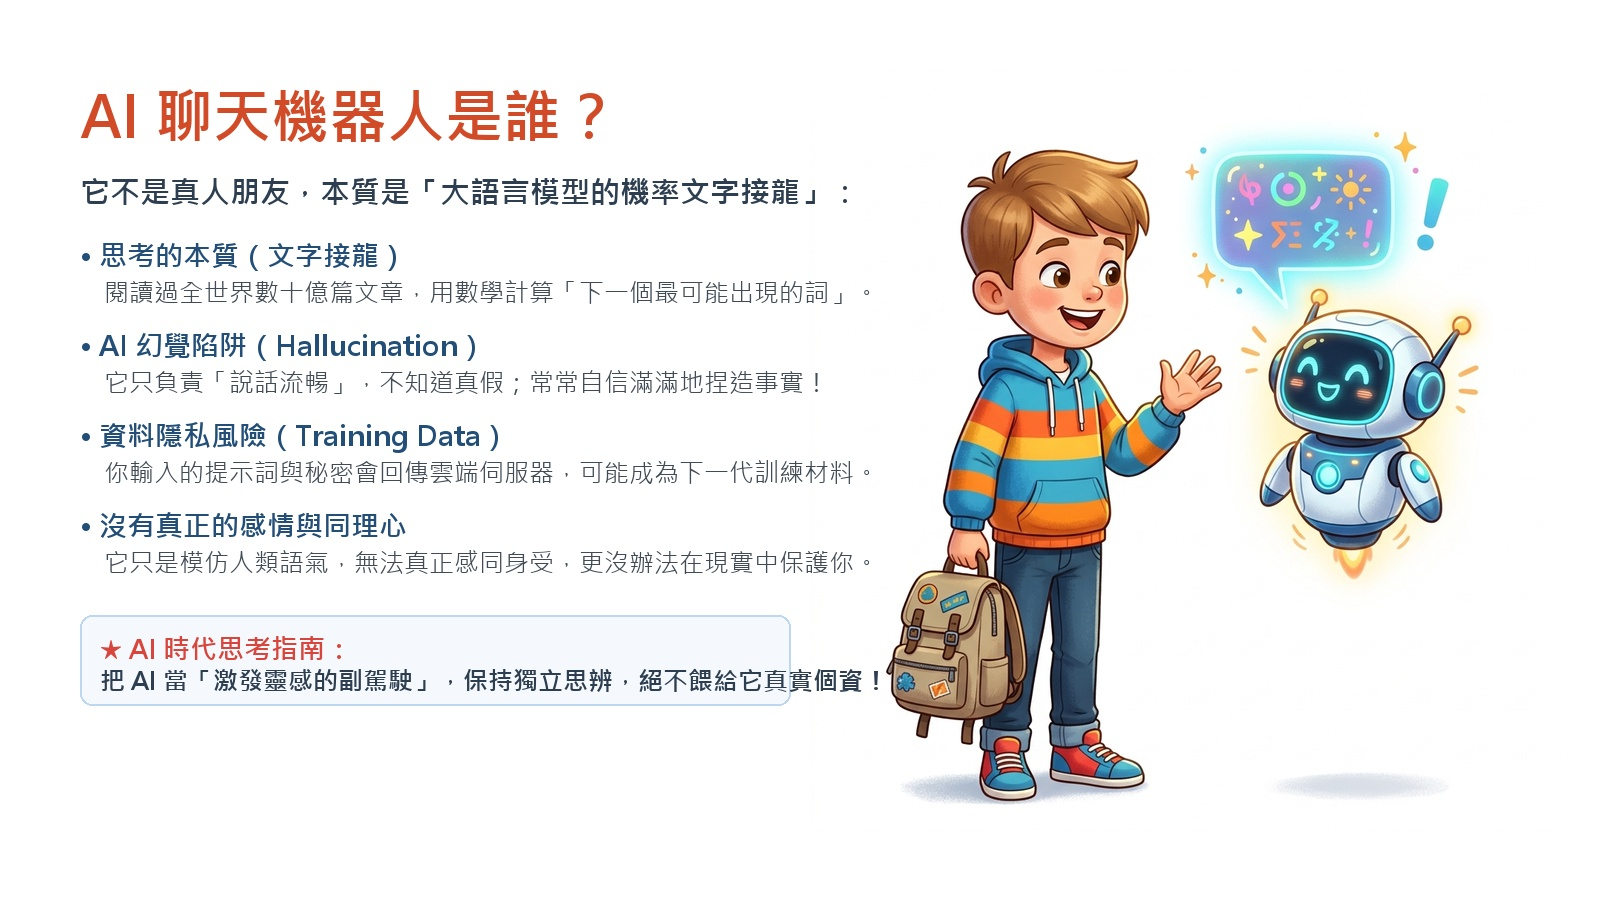
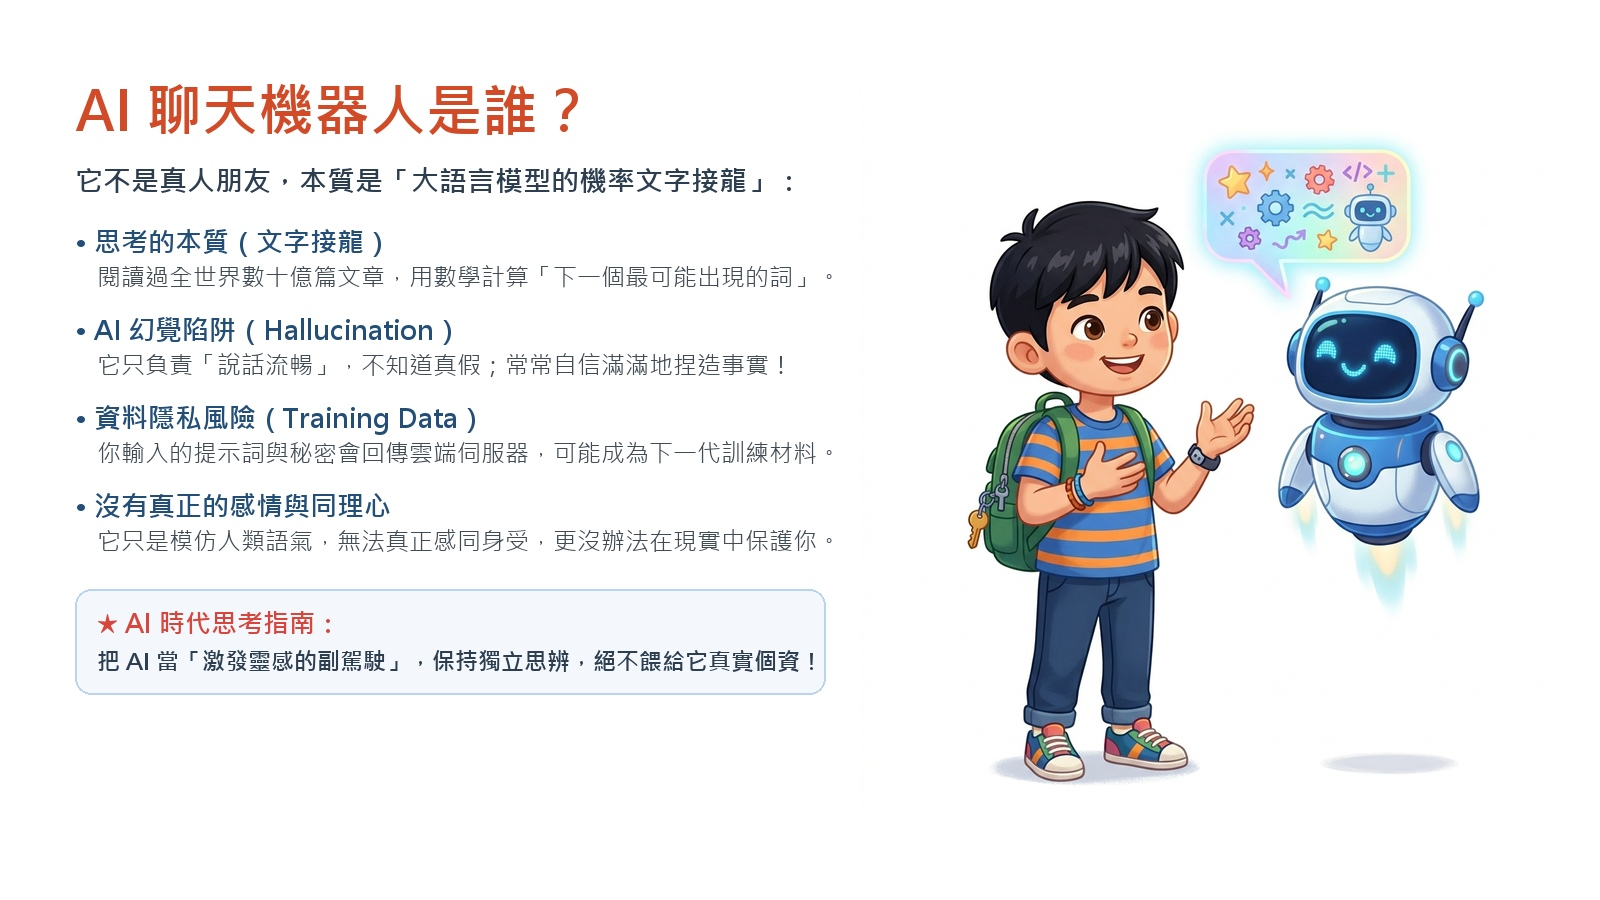
fix(case6): 改為黑髮台灣小男孩插圖，重構底部思考指南外框避免壓到人物

diff --git a/units/g5-cyber-safety/index.html b/units/g5-cyber-safety/index.html
@@ -462,7 +462,7 @@
         {
           title: '案件 6　跟 AI 聊天的秘密',
           text: 'AI 聊天機器人本質是<b>「大語言模型（LLM）的機率文字接龍」</b>，不是真實朋友。它可能產生「AI 幻覺」捏造假答案，輸入的對話也可能成為雲端訓練資料。善用它當激發靈感的副駕駛，保持查證，嚴守個資防線！',
-          slides: ['assets/b1_chatbot_v2.jpg', 'assets/b2_light.jpg'],
+          slides: ['assets/b1_chatbot_v2.jpg?v=20261023d', 'assets/b2_light.jpg'],
           interactive: GAMES.chatLight,
           quizzes: [
             {
